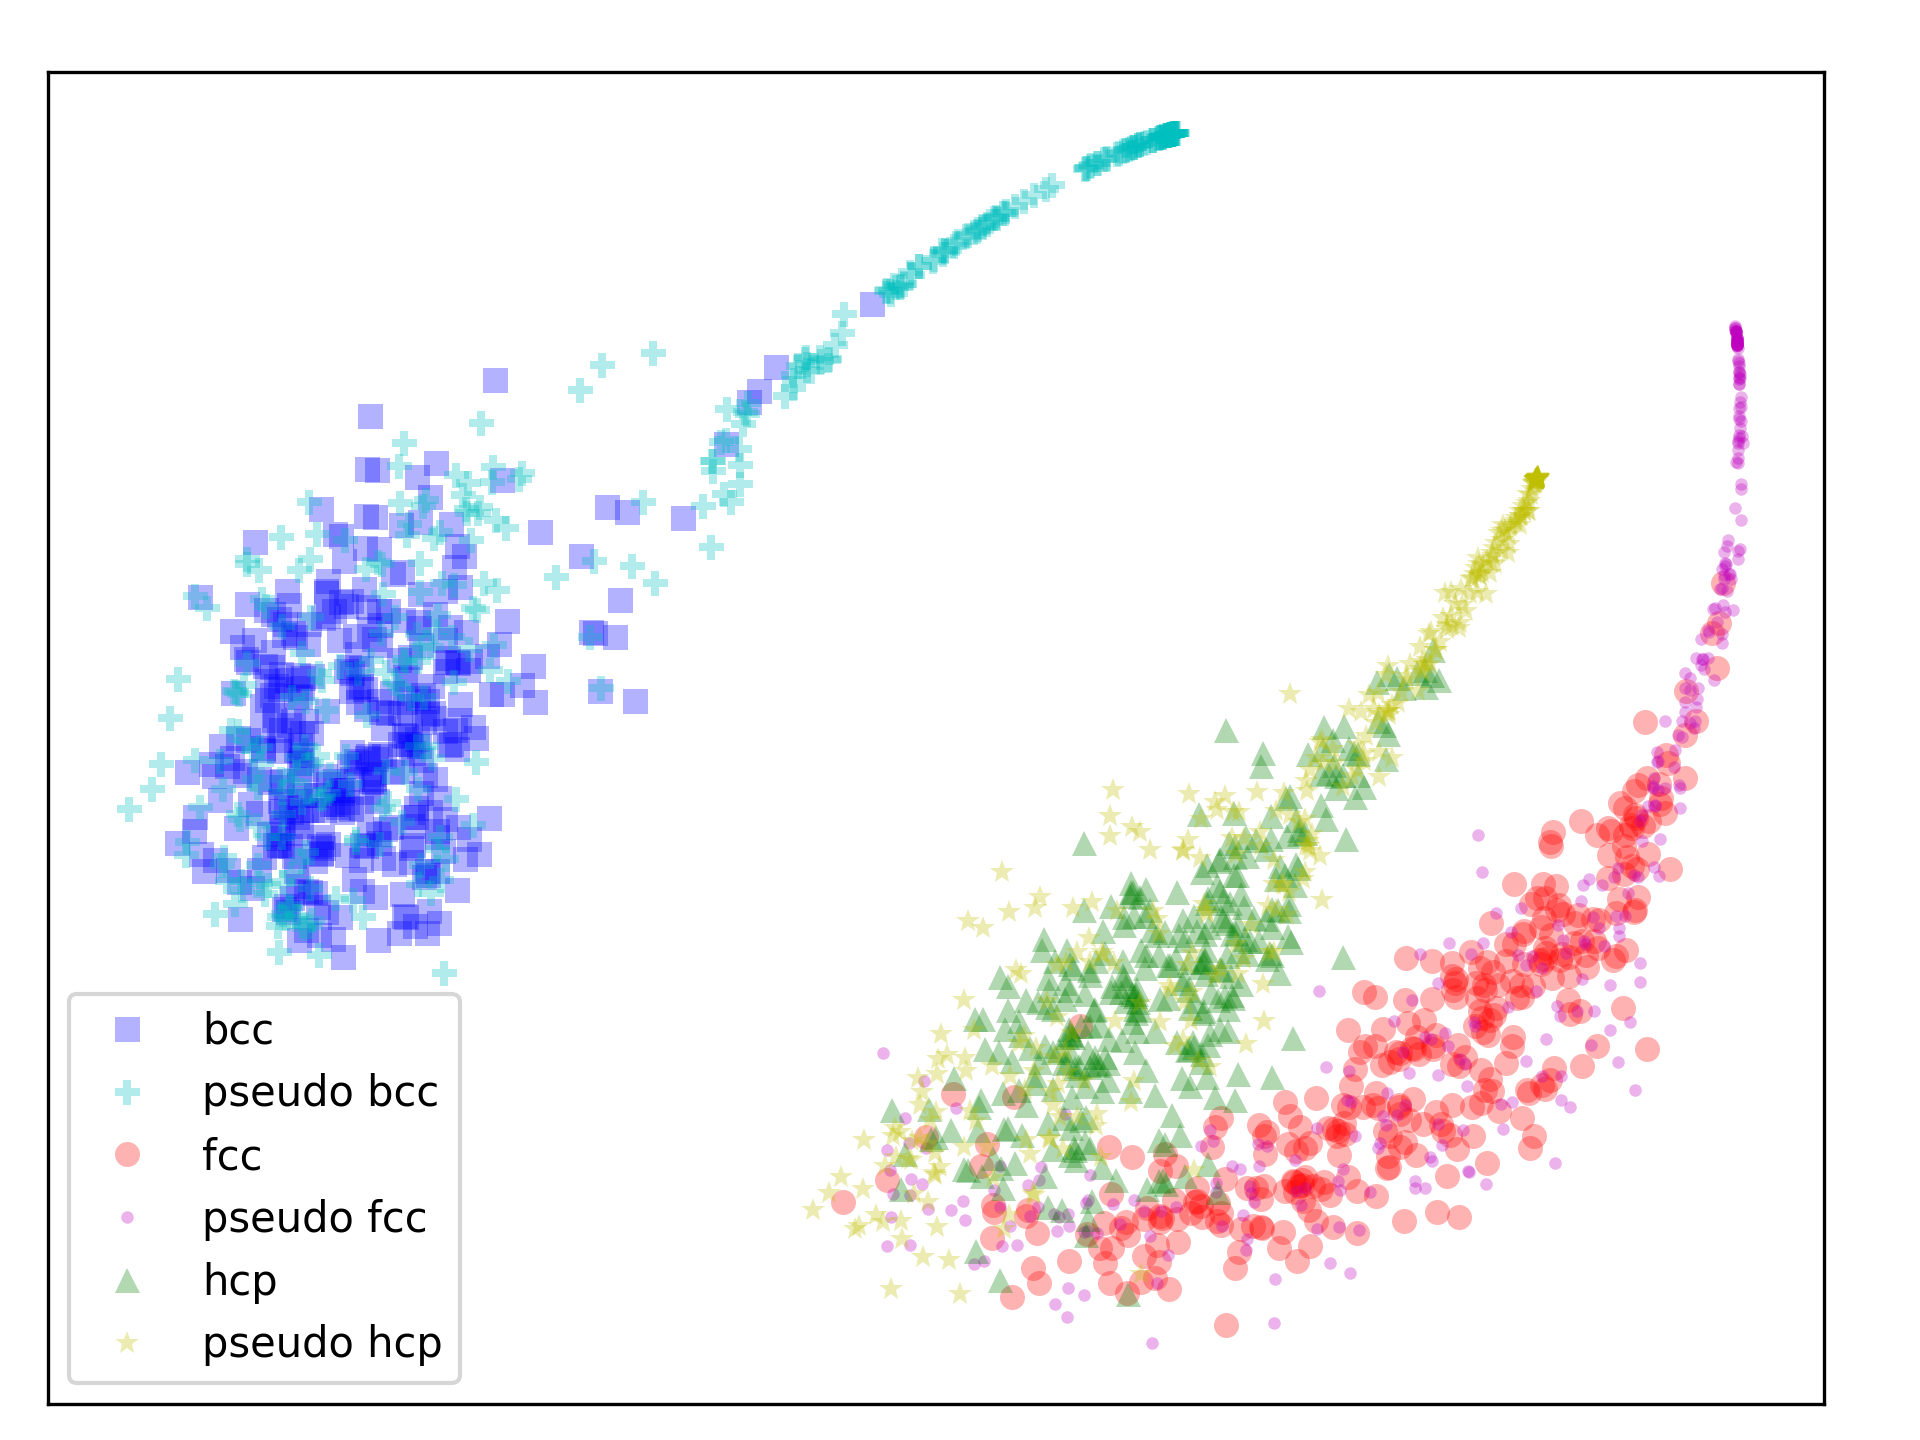
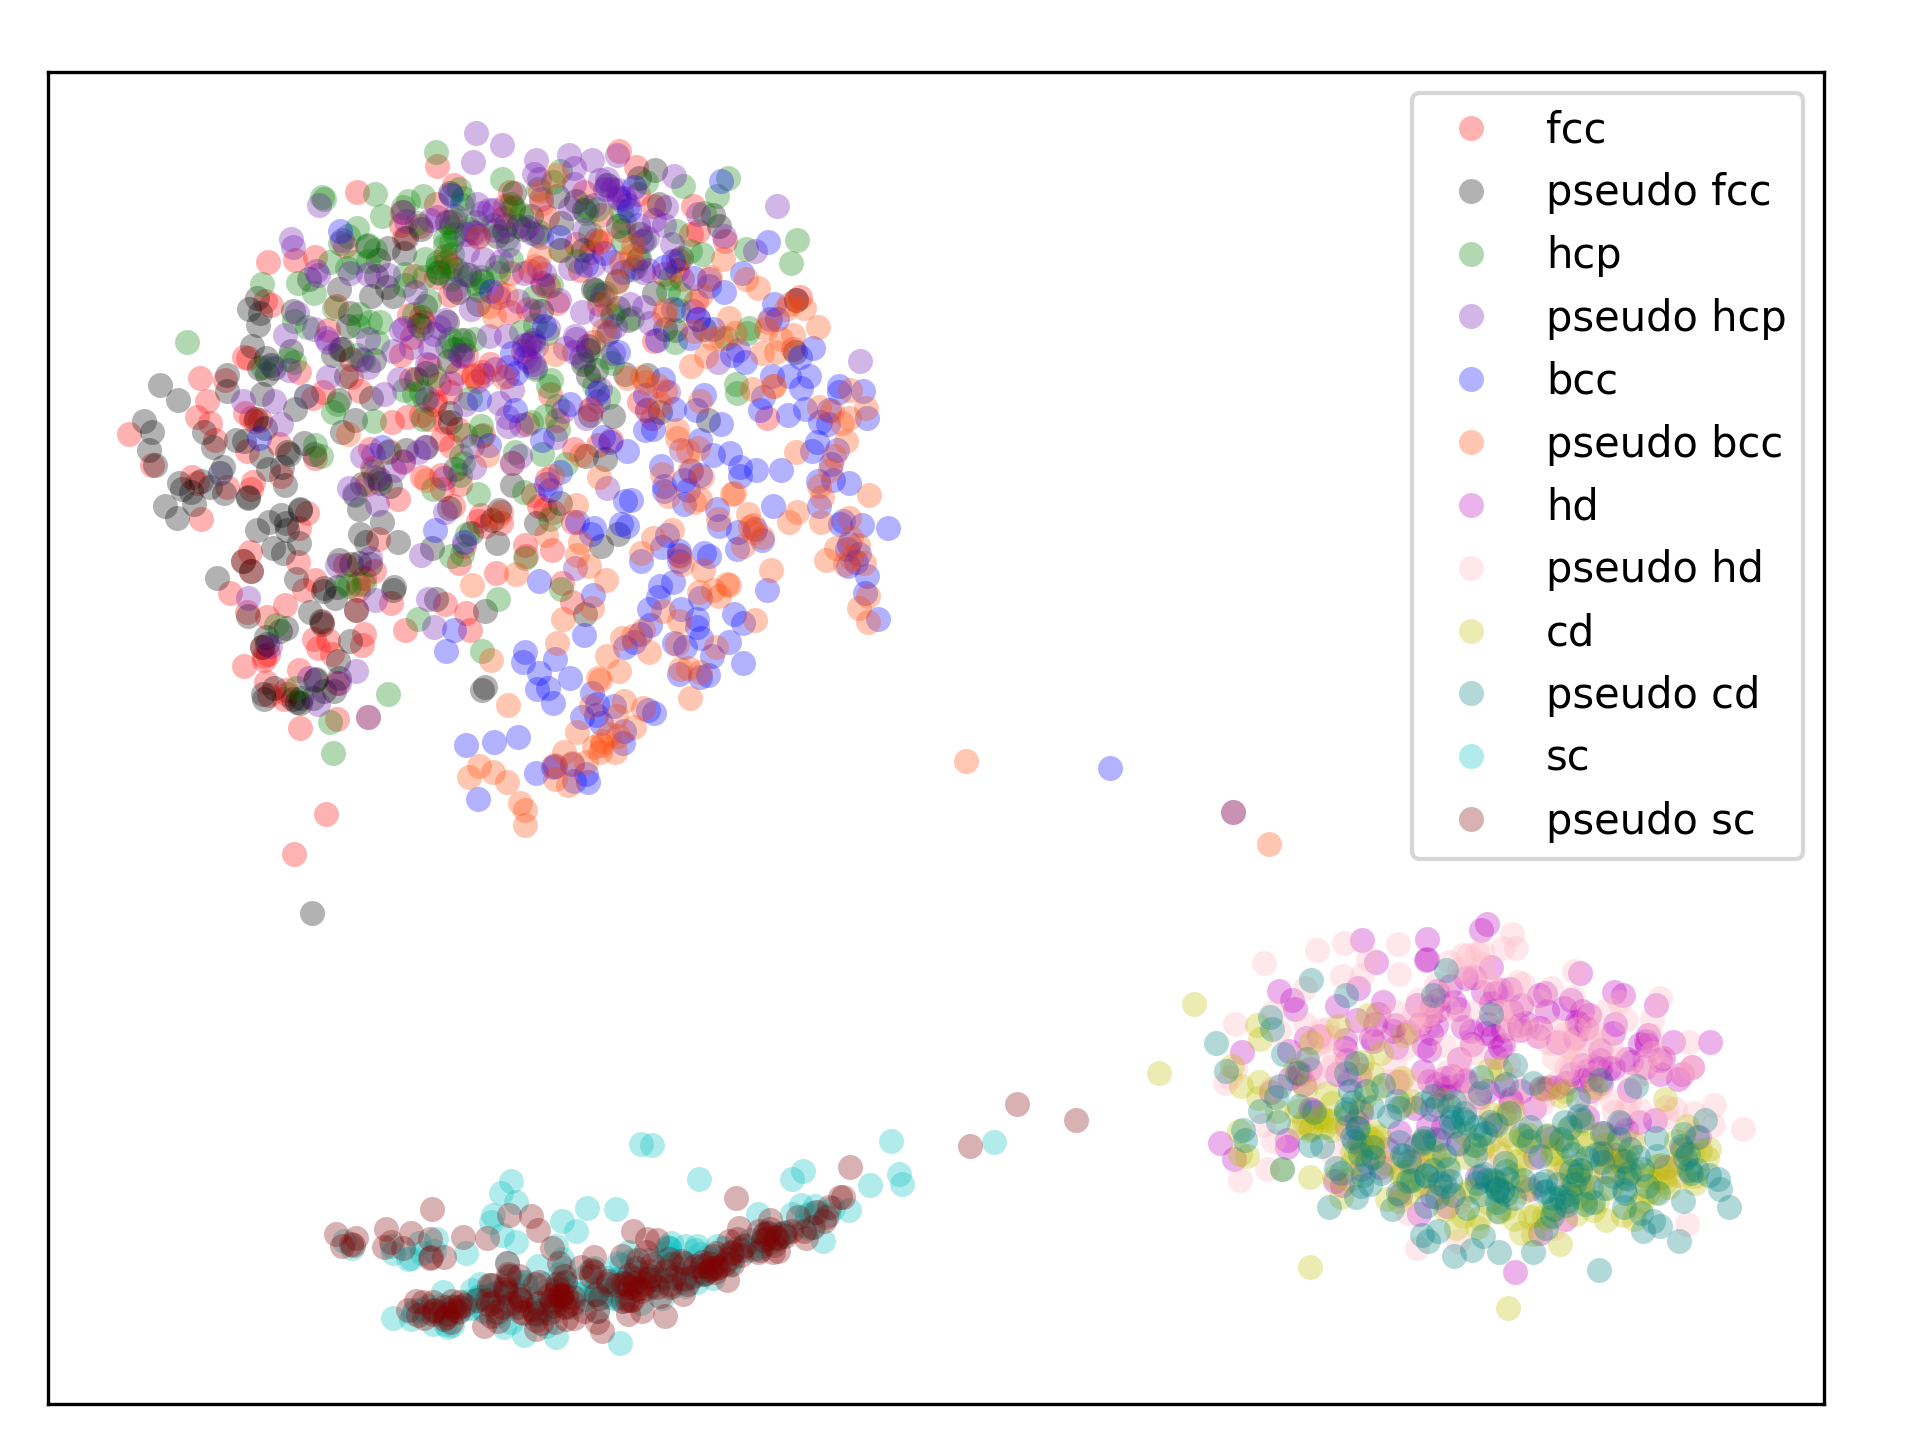
added cubic diamond, hexagonal diamond, simple cubic -- model score and visualization

diff --git a/util/constants.py b/util/constants.py
@@ -21,23 +21,29 @@ cat_svm_lin_ovo_path = 'f_cat_svm_lin_ovo/'
 
 ######### CRYSTAL STRUCTURES ########
 
-Lattice= namedtuple('CrystalStruct', 'name, sim_dir, y_label, n_neigh, pt_fmt, ps_pt_fmt')
+Lattice= namedtuple('CrystalStruct', 'name, sim_dir, dflt_temp, y_label, n_neigh, pt_fmt, ps_pt_fmt')
 
 lattices = [
-  Lattice(name='bcc', sim_dir='02_crystals/', y_label=3, n_neigh=8 , pt_fmt='bs', ps_pt_fmt='cP'),#int(CNAModifier.Type.BCC)),
-  Lattice(name='fcc', sim_dir='02_crystals/', y_label=1, n_neigh=12, pt_fmt='ro', ps_pt_fmt='m.'),#int(CNAModifier.Type.FCC)),
-  Lattice(name='hcp', sim_dir='02_crystals/', y_label=2, n_neigh=12, pt_fmt='g^', ps_pt_fmt='y*'),#int(CNAModifier.Type.HCP)),
+  Lattice(name='fcc', sim_dir='02_crystals/', dflt_temp=900, y_label=1, n_neigh=12,  pt_fmt='ro', ps_pt_fmt='ko'),#int(CNAModifier.Type.FCC)),
+  Lattice(name='hcp', sim_dir='02_crystals/', dflt_temp=1500, y_label=2, n_neigh=12, pt_fmt='go', ps_pt_fmt='#6a0dad'),#int(CNAModifier.Type.HCP)),
+  Lattice(name='bcc', sim_dir='02_crystals/', dflt_temp=1500, y_label=3, n_neigh=8 , pt_fmt='bo', ps_pt_fmt='#ff4500'),#int(CNAModifier.Type.BCC)),
+  Lattice(name='hd',  sim_dir='02_crystals/', dflt_temp=220, y_label=4, n_neigh=4,   pt_fmt='mo', ps_pt_fmt='#ffb6c1'),#int(CNAModifier.Type.HCP)),
+  Lattice(name='cd',  sim_dir='02_crystals/', dflt_temp=1500, y_label=5, n_neigh=4,  pt_fmt='yo', ps_pt_fmt='#008080'),#int(CNAModifier.Type.HCP)),
+  Lattice(name='sc',  sim_dir='02_crystals/', dflt_temp=500, y_label=6, n_neigh=6,   pt_fmt='co', ps_pt_fmt='#800000'),#int(CNAModifier.Type.HCP)),
   #Lattice(name='liq', sim_dir='03_liquid/',   cna_mod_type=0, n_neigh=None)#int(CNAModifier.Type.OTHER))
 ]
 
 possible_n_neigh = list(set([l.n_neigh for l in lattices]))
 
 str_to_latt = {
-  'bcc': lattices[0],
-  'fcc': lattices[1],
-  'hcp': lattices[2],
+  'fcc': lattices[0],
+  'hcp': lattices[1],
+  'bcc': lattices[2],
+  'hd':  lattices[3],
+  'cd':  lattices[4],
+  'sc':  lattices[5],
 }
 
 lbl_to_latt = {l.y_label : l for l in lattices}
 
-n_features = 30
+n_features = 15

diff --git a/03_visualization/b_tSNE/compute.py b/03_visualization/b_tSNE/compute.py
@@ -4,20 +4,21 @@ from sklearn.manifold import TSNE
 from sklearn.decomposition import PCA
 
 from util import dir_util
+from util import constants as cnst
 
 ##########################################################################
 # Input parameters and setup.                                            #
 ##########################################################################
 
-perplexity_list = [10, 50, 200, 500, 1000]
+perplexity_list = [10, 50, 400, 1000]
 default_perplexity = 10
-M = 1000 # Number of data points used in tSNE.
+M = 200*len(cnst.lattices)# Number of data points used in tSNE.
 
 def input_params_and_setup(perplexity, paths, pseudo=True):
   # Load data from example files and limit data points.
-  fnames = dir_util.clean_features_paths02(pseudo=pseudo)
-  X = np.loadtxt(fnames.X)
-  y = np.loadtxt(fnames.y)
+  fnames = dir_util.clean_features_paths02(istest=not pseudo, pseudo=pseudo)
+  X = np.loadtxt(fnames.X.format('concat_'))
+  y = np.loadtxt(fnames.y.format('concat_'))
   X = X[:M]
   y = y[:M]
 
@@ -60,7 +61,7 @@ def main(perplexity=default_perplexity):
   ps_X, ps_y = input_params_and_setup(perplexity, ps_paths, pseudo=True)
   all_X = np.row_stack((X, ps_X))
   compute_tsne(all_X, perplexity, paths)
-  compute_tsne_with_PCA(all_X, perplexity, paths)
+  #compute_tsne_with_PCA(all_X, perplexity, paths)
 
 def main_many():
   for p in tqdm(perplexity_list):

diff --git a/03_visualization/a_PCA/plot.py b/03_visualization/a_PCA/plot.py
@@ -15,7 +15,7 @@ def load_and_process_data(pseudo=True):
   data_names = dir_util.pca_data_paths03(pseudo=pseudo)
   PCA_1 = np.loadtxt(data_names.comp1)
   PCA_2 = np.loadtxt(data_names.comp2)
-  y = np.loadtxt(dir_util.clean_features_paths02(istest=not pseudo, pseudo=pseudo).y)
+  y = np.loadtxt(dir_util.clean_features_paths02(istest=not pseudo, pseudo=pseudo).y.format('concat_'))
 
   # Limit number of points plotted.
   PCA_1 = PCA_1[:M]
@@ -35,8 +35,8 @@ def plot(ps_PCA_1, ps_PCA_2, ps_y, PCA_1, PCA_2, y):
   # Plot.
   for latt in cnst.lattices:
     y_lbl = latt.y_label
-    ax.plot(PCA_1[y==y_lbl],       PCA_2[y==y_lbl]      , latt.pt_fmt,    alpha=.3, label=latt.name, mew=0)
-    ax.plot(ps_PCA_1[ps_y==y_lbl], ps_PCA_2[ps_y==y_lbl], latt.ps_pt_fmt, alpha=.3, label='pseudo '+latt.name, mew=0)
+    ax.plot(PCA_1[y==y_lbl],       PCA_2[y==y_lbl]      , latt.pt_fmt,    marker='.', alpha=.3, ls='', label=latt.name, mew=0)
+    ax.plot(ps_PCA_1[ps_y==y_lbl], ps_PCA_2[ps_y==y_lbl], latt.ps_pt_fmt, marker='.', alpha=.3, ls='', label='pseudo '+latt.name, mew=0)
    
   # Add details.
   ax.set_xlabel(r'First PCA component')

diff --git a/03_visualization/b_tSNE/plot.py b/03_visualization/b_tSNE/plot.py
@@ -22,8 +22,8 @@ def plot_one_tSNE(X_tmplt, fig_tmplt, ps_y, y, perplexity):
   # Plot.
   for latt in cnst.lattices:
     y_lbl = latt.y_label
-    ax.plot(tSNE[y==y_lbl][:,0],       tSNE[y==y_lbl][:,1],       latt.pt_fmt,    alpha=.3, label=latt.name, mew=0)
-    ax.plot(ps_tSNE[ps_y==y_lbl][:,0], ps_tSNE[ps_y==y_lbl][:,1], latt.ps_pt_fmt, alpha=.3, label='pseudo '+latt.name, mew=0)
+    ax.plot(tSNE[y==y_lbl][:,0],       tSNE[y==y_lbl][:,1],       latt.pt_fmt,    marker='o', alpha=.3, ls='', label=latt.name, mew=0)
+    ax.plot(ps_tSNE[ps_y==y_lbl][:,0], ps_tSNE[ps_y==y_lbl][:,1], latt.ps_pt_fmt, marker='o', alpha=.3, ls='', label='pseudo '+latt.name, mew=0)
    
   # Add details.
   ax.set_xticks([])
@@ -52,7 +52,7 @@ def main():
   y    = np.loadtxt(data_paths.y)
   ps_y = np.loadtxt(ps_data_paths.y)
   plot_many_tSNE(ps_y, y, data_paths, withPCA=False)
-  plot_many_tSNE(ps_y, y, data_paths, withPCA=True)
+  #plot_many_tSNE(ps_y, y, data_paths, withPCA=True)
 
 if __name__=='__main__':
   main()

diff --git a/util/dir_util.py b/util/dir_util.py
@@ -5,10 +5,13 @@ from pathlib import Path
 blank = '{}'
 pseudo_pre = 'pseudo_'
 
-def dump_path_for_lattice00(latt, perfect=False):
-  perf_suffix = '_perfect' if perfect else ''
-  dump_tmpl = 'data/dump/dump_{}{}_{}.dat'
-  return make_dirs(cnst.md_path + latt.sim_dir + dump_tmpl.format(latt.name, perf_suffix, blank))[0]
+def dump_path_for_lattice00(latt, perfect=False, temp=None):
+  temp = temp if temp != None else latt.dflt_temp
+  perf_suffix = '_perfect' if perfect else '_{}K'.format(temp)
+  perf_prefix = 'perfect_' if perfect else ''
+  ext = 'dat' if perfect else 'gz'
+  dump_tmpl = '{}data/dump/dump_{}{}_{}.{}'#.dat'
+  return make_dirs(cnst.md_path + latt.sim_dir + dump_tmpl.format(perf_prefix, latt.name, perf_suffix, blank, ext))[0]
 
 def all_features_path01(latt, pseudo=False):
   pseudo_prefix = pseudo_pre if pseudo else ''

diff --git a/01_compute_features/01_compute.py b/01_compute_features/01_compute.py
@@ -10,7 +10,7 @@ from util import dir_util
 default_pseudo = .3
 
 def compute_real_n_neigh(latt, l, N_stein, n_neigh):
-  steps = np.arange(10000, 20000+1000, 1000)
+  steps = np.arange(10000, 100000+10000, 10000)
   # Iterate over steps.
   X = np.zeros((0, N_stein))
   for ts in tqdm(steps):
@@ -59,6 +59,7 @@ def main():
             else None
 
   lattices = cnst.lattices if args.latt == None else [cnst.str_to_latt[args.latt]]
+  lattices = cnst.lattices[4:]
   for latt in lattices:
     print(latt.name)
     if pseudo_param != None or args.comp_both:

diff --git a/03_visualization/a_PCA/compute.py b/03_visualization/a_PCA/compute.py
@@ -6,9 +6,9 @@ from util import dir_util
 def main():
   # Load data from example files.
   ps_test_names = dir_util.clean_features_paths02(pseudo=True)
-  test_names = dir_util.clean_features_paths02(istest=True)
-  ps_X = np.loadtxt(ps_test_names.X)
-  X = np.loadtxt(test_names.X)
+  test_names    = dir_util.clean_features_paths02(istest=True)
+  ps_X = np.loadtxt(ps_test_names.X.format('concat_'))
+  X    = np.loadtxt(test_names.X.format('concat_'))
 
   # Compute PCA from  and save first two components.
   pca = PCA()

diff --git a/04_hyperparam_optim/f_cat_svm_lin_ovo/tuner.py b/04_hyperparam_optim/f_cat_svm_lin_ovo/tuner.py
@@ -23,8 +23,9 @@ class ModelTunerF(ModelTuner):
     return X,y
 
   def set_hyperparam(self):
-    self.model_params['C'] = .1
-    self.hyperprm_sffx = '_C_1e-1'
+    pass
+    #self.model_params['C'] = .1
+    #self.hyperprm_sffx = '_C_1e-1'
 
 
 if __name__=='__main__':
